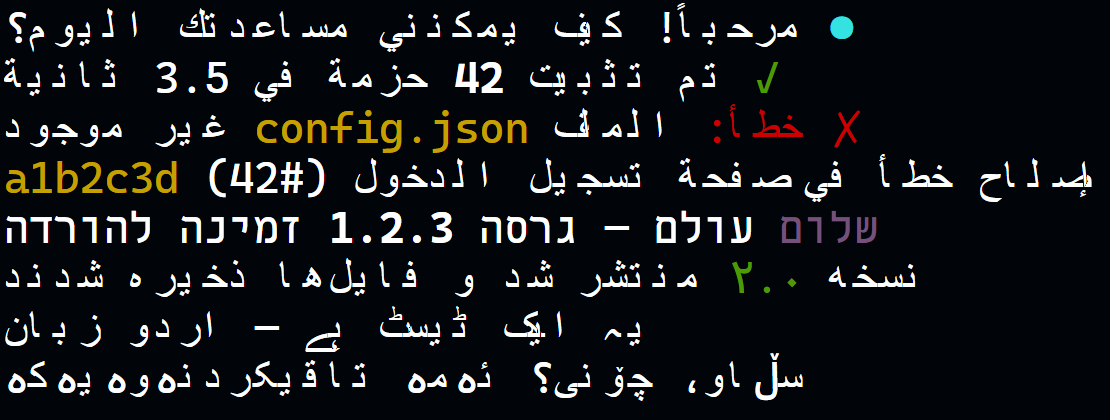
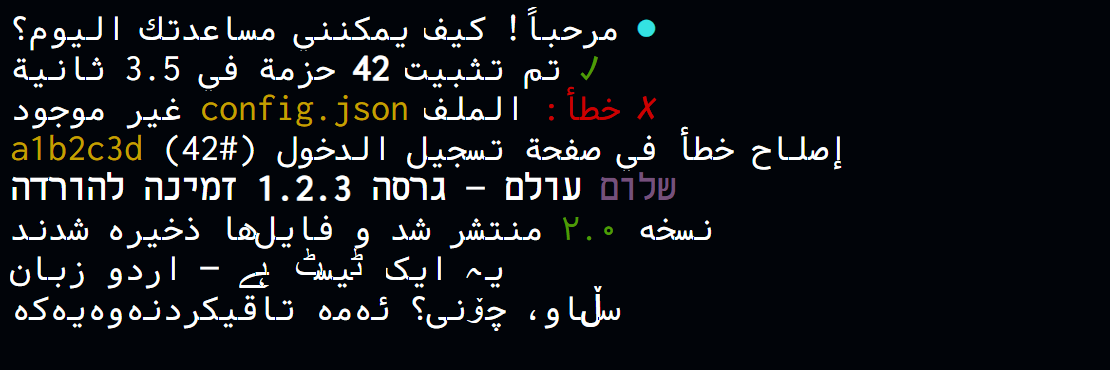
Render screenshots with Vazir Code so joined Arabic letters touch; add a fonts section

diff --git a/README.ar.md b/README.ar.md
@@ -109,6 +109,18 @@ some-command | termbidi --width auto --align-rtl
 | `-f, --force` | يرتّب النص حتى لو بدا أن الطرفية ترتّبه بنفسها |
 | `--detect` | يطبع الطرفية التي تعرّف عليها وما سيفعله |
 
+## الخطوط: لتتصل الحروف تماماً
+
+يحوّل termbidi كل حرف عربي إلى شكله المتصل، لكن الطرفية ترسم كل حرف في خانة بعرض ثابت. ومع الخط الاحتياطي العادي تكون أشكال الحروف المتصلة أضيق من الخانة، فتظهر فراغات صغيرة بين الحروف. الحل خط بعرض ثابت صُممت حروفه العربية لتملأ الخانة:
+
+| الخط | الرخصة | ملاحظات |
+|---|---|---|
+| [Vazir Code](https://github.com/rastikerdar/vazir-code-font) | ملكية عامة | المستخدم في الصور أعلاه |
+| [Kawkab Mono](https://github.com/aiaf/kawkab-mono) | OFL 1.1 | مصمم للكود العربي |
+| DejaVu Sans Mono | رخصة حرة | مثبّت غالباً على لينكس |
+
+اجعله خط الطرفية، أو خطاً احتياطياً بعد خطك المعتاد (مثلاً في VS Code: `"terminal.integrated.fontFamily": "Cascadia Mono, Vazir Code"`).
+
 ## الفرق عن البدائل
 
 | | تحافظ على ألوان ANSI | لفّ حسب عرض الأعمدة | وصل الحروف العربية | تعرف الطرفيات التي ترتّب بنفسها | مكتبة لتطبيقات Node |

diff --git a/README.md b/README.md
@@ -107,6 +107,18 @@ some-command | termbidi --width auto --align-rtl
 | `-f, --force` | Reorder even if the terminal seems to do it itself |
 | `--detect` | Print which terminal was recognised and what termbidi will do |
 
+## Fonts: make joined letters touch
+
+termbidi gives each Arabic letter its joined form, but a terminal draws every character in a fixed-width cell. With an ordinary fallback font the joined forms are narrower than the cell, so small gaps appear between letters. A monospace font whose Arabic forms are drawn to fill the cell removes the gaps:
+
+| Font | Licence | Notes |
+|---|---|---|
+| [Vazir Code](https://github.com/rastikerdar/vazir-code-font) | Public domain | Used for the screenshots above |
+| [Kawkab Mono](https://github.com/aiaf/kawkab-mono) | OFL 1.1 | Designed for Arabic code |
+| DejaVu Sans Mono | Free licence | Often installed on Linux |
+
+Set it as your terminal font, or as a fallback after your usual font (for example in VS Code: `"terminal.integrated.fontFamily": "Cascadia Mono, Vazir Code"`).
+
 ## How it differs from the alternatives
 
 | | ANSI colors kept | Column-aware wrapping | Arabic joining | Knows which terminals reorder | Library for Node apps |

diff --git a/CHANGELOG.md b/CHANGELOG.md
@@ -5,6 +5,11 @@ All notable changes to this project are documented here. The format follows
 [Semantic Versioning](https://semver.org/). Until 1.0, minor versions may
 change the API.
 
+## [Unreleased]
+
+### Changed
+- Screenshots and banners rendered with Vazir Code, a monospace font whose Arabic forms fill the cell; README section on fonts. `scripts/render-page.mjs` accepts `?font=` and `&family=`.
+
 ## [0.1.0] - 2026-10-29
 
 First public, experimental release.

diff --git a/docs/design/README.md b/docs/design/README.md
@@ -9,3 +9,5 @@ python -m http.server 8000
 # then, for example:
 chrome --headless=new --window-size=1280,640 --force-device-scale-factor=2 --screenshot=banner.png http://localhost:8000/banner.html
 ```
+
+The terminal screenshots use Vazir Code (public domain): `node scripts/render-page.mjs <xterm dir> render.html`, then open `render.html?font=vazir.woff2&family=vazir&size=19&cols=52`.
